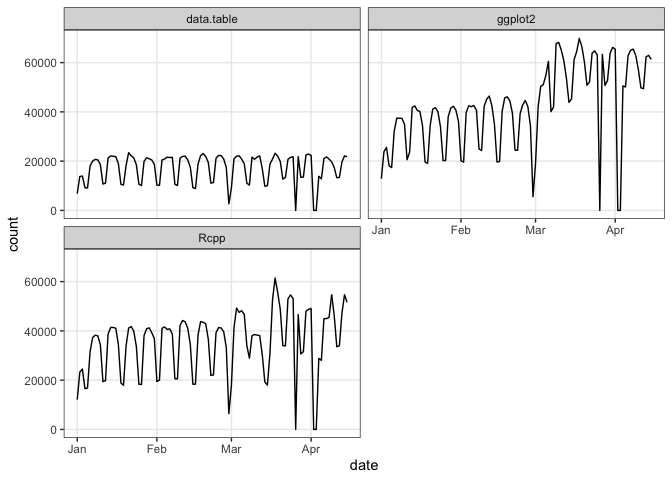
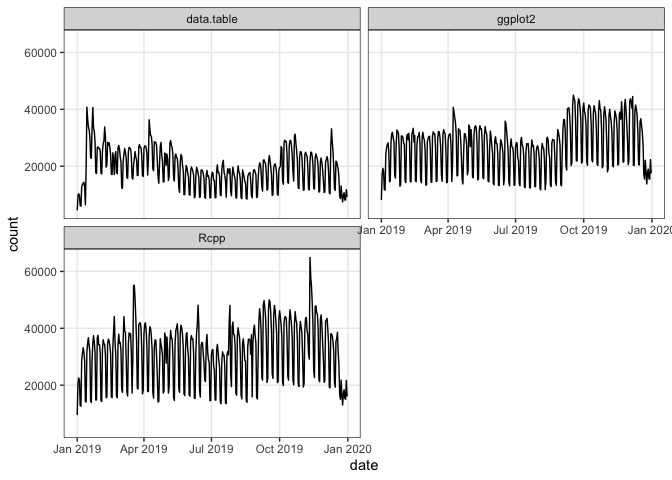
copyedit

diff --git a/content/post/2020-03-03-packageRank/index.md b/content/post/2020-03-03-packageRank/index.md
@@ -35,7 +35,7 @@ cranlogs::cran_downloads(packages = "HistData")
 
 ```
         date count  package
-1 2020-04-15   410 HistData
+1 2020-04-16   426 HistData
 ```
 
 <br/>
@@ -47,14 +47,14 @@ cranDownloads(packages = "HistData")
 
 ```
         date count  package
-1 2020-04-15   410 HistData
+1 2020-04-16   426 HistData
 ```
 
 <br/>
 The only difference is that `cranDownloads()` adds four features:
 <br/>
 
-## "spell check" package names
+## check package names
 
 
 ```r
@@ -73,7 +73,7 @@ cranDownloads(packages = "ggplot2")
 
 ```
         date count package
-1 2020-04-15 61322 ggplot2
+1 2020-04-16 60828 ggplot2
 ```
 
 <br/>
@@ -96,14 +96,14 @@ cranDownloads(packages = "VR")
 
 ```
         date count package
-1 2020-04-15   239      VR
+1 2020-04-16     0      VR
 ```
 
 <br/>
 
-## two additional date formats
+## additional date formats
 
-With `cranlogs::cran_downloads()`, you can specify a time frame using the `from` and `to` arguments. The only downside is that dates must be formatted as "yyyy-mm-dd".To reduce typing and to create convenient shortcuts, `cranDownloads()` also allows you to use "yyyy-mm" or "yyyy" (yyyy works too!).
+With `cranlogs::cran_downloads()`, you can specify a time frame using the `from` and `to` arguments. The downside is that dates must be formatted as "yyyy-mm-dd". To reduce typing, `cranDownloads()` allows you to also use "yyyy-mm" or "yyyy" (yyyy works too!).
 
 ### "yyyy-mm"
 
@@ -115,7 +115,6 @@ cranlogs::cran_downloads(packages = "HistData", from = "2020-02-01",
   to = "2020-02-29")
 ```
 
-<br/>
 With `cranDownloads()`, you can just specify the year and month:
 
 
@@ -123,8 +122,6 @@ With `cranDownloads()`, you can just specify the year and month:
 # 29 observations!
 cranDownloads(packages = "HistData", from = "2020-02", to = "2020-02")
 ```
-
-<br/>
 
 ### "yyyy"
 
@@ -136,7 +133,6 @@ cranlogs::cran_downloads(packages = "rstan", from = "2020-01-01",
   to = Sys.Date() - 1)
 ```
 
-<br/>
 With `cranDownloads()`, you can just type:
 
 
@@ -163,24 +159,24 @@ cranDownloads(packages = "HistData", from = "2019-01-15",
 
 ## visualization
 
-`cranDownloads()` makes visualization of `cranlogs::cran_downloads()` output easier. Just use `plot()`:
+`cranDownloads()` makes visualization easy. Just use `plot()`:
 
 
 ```r
 plot(cranDownloads(packages = "HistData", from = "2019", to = "2019"))
 ```
 
-{{<figure src="cranDownloads_viz1-1.png" title="Figure 1 'HistData' 2019 Package Downloads">}}
+{{<figure src="cranDownloads_viz1-1.png" title="Figure 1 Visualize cranDownloads() for A Single Package">}}
 
 If you pass a vector of package names, `plot()` defaults to using `ggplot2` facets:
 
 
 ```r
 plot(cranDownloads(packages = c("ggplot2", "data.table", "Rcpp"),
-  from = "2020"))
+  from = "2019", to = "2019"))
 ```
 
-{{<figure src="cranDownloads_viz2-1.png" title="Figure 4 Year-to-Date Downloads for Multiple Packages">}}
+{{<figure src="cranDownloads_viz2-1.png" title="Figure 2 Visualize cranDownloads() for Multiple Packages">}}
 
 <br/>
 If you want the data in a single plot, use `multi.plot = TRUE`:
@@ -188,14 +184,16 @@ If you want the data in a single plot, use `multi.plot = TRUE`:
 
 ```r
 plot(cranDownloads(packages = c("ggplot2", "data.table", "Rcpp"),
-  from = "2020"), multi.plot = TRUE)
+  from = "2019", to = "2019"), multi.plot = TRUE)
 ```
+
+See the [documentation](https://www.github.com/lindbrook/packageRank/) for `plot.cranDownloads()` for more plotting options.
 
 ******
 
 # `packageRank()`
 
-[`'packageRank'`](https://cran.r-project.org/package=packageRank) began as a collection of functions I wrote to gauge interest in the [`'cholera'`](https://cran.r-project.org/package=cholera) package. After looking at the data for this and other packages, the "compared to what?" question naturally comes to mind.
+[`'packageRank'`](https://cran.r-project.org/package=packageRank) began as a collection of functions I wrote to gauge interest in the [`'cholera'`](https://cran.r-project.org/package=cholera) package. After looking at the data for this and other packages, the "compared to what?" question quickly came to mind.
 
 Consider the data for the first week of March 2020:
 
@@ -204,23 +202,24 @@ Consider the data for the first week of March 2020:
 plot(cranDownloads(packages = "cholera", from = "2020-03-01",
   to = "2020-03-07"))
 ```
+{{<figure src="motivation_code-1.png" title="Figure 3 Package Downloads for 'cholera' March 1-7, 2020">}}
 
 <br/>
 
-{{<figure src="motivation_code-1.png" title="Figure 3 Package Downloads for 'cholera' March 1-7, 2020">}}
-
-Do the peaks on Wednesday and Saturday represent surges of interest in the package or surges of traffic to [CRAN](https://cran.r-project.org/)? To put it more broadly, how can we know if a given download count is typical or unusual?
+Do the peaks on Wednesday and Saturday represent surges of interest in the package or surges of traffic to [CRAN](https://cran.r-project.org/)? To put it differently, how can we know if a given download count is typical or unusual?
 
 One way to answer these questions is to locate your package in the frequency distribution of download counts. Below are the distributions for Wednesday and Saturday with the location of [`'cholera'`](https://cran.r-project.org/package=cholera) highlighted:
 
 {{<figure src="skew_wed-1.png" title="Figure 4 Frequency Distribution of Package Downloads for Wednesday, March 4, 2020">}}
 
+<br/>
+
 {{<figure src="skew_sat-1.png" title="Figure 5 Frequency Distribution of Package Downloads for Saturday, March 7, 2020">}}
 <br/>
 
-Unfortunately, the frequency distribution of package downloads typically has a heavily skewed, exponential shape: on the Wednesday, the most "popular" package had 177,745 downloads while the least "popular" package(s) had just one. This is why the left side of the distribution, where packages with fewer downloads are located, _looks_ like a vertical line.
+As you can see, the frequency distribution of package downloads typically has a heavily skewed, exponential shape. On the Wednesday, the most "popular" package had 177,745 downloads while the least "popular" package(s) had just one. This is why the left side of the distribution, where packages with fewer downloads are located, _looks_ like a vertical line.To help see what's going on, we can take the log of download counts (x-axis) and redraw the graph.
 
-To help see what's going on, I redraw the plots using the logarithm of download counts (x-axis). In these plots, a vertical segment's position on the x-axis represents its download count and its height represents the number of packages with that download count:
+In these plots, the position of each vertical segment along the x-axis represents its download count and the height of each segments represents the number of packages with that download count:
 
 
 
@@ -238,15 +237,14 @@ plot(packageDistribution(package = "cholera", date = "2020-03-07"))
 ```
 {{<figure src="packageDistribution_sat_code-1.png" title="Figure 7 Frequency Distribution of Package Downloads for Saturday, March 7, 2020 with Logarithm of Download Counts">}}
 
+<br/>
+
 While these plots give us a better picture of where [`'cholera'`](https://cran.r-project.org/package=cholera) is located, comparisons between Wednesday and Saturday are impressionistic at best: all we can confidently say is that the download counts for both days were greater than the mode.
 
-To facilitate interpretation and comparison, I use the _rank percentile_ of download counts in place of nominal download counts. On the theoretical side, rank percentiles benefit from the fact that they give you the location of a package relative to the position of all other packages (i.e., the package's location in the distribution). On the pragmatic side, rank percentiles make it easier to numerically and visually compare Wednesday and Saturday. They rescale download counts so that they lie on a bounded interval between 0 and 100 rather than on one bounded only by zero. More importantly, they have a simple interpretation: it tells you the percentage of packages with fewer downloads.
-
-Here're the results for Wednesday and Saturday.
+To facilitate interpretation and comparison, I use the _rank percentile_ of download counts in place of nominal download counts. This nonparametric statistic tells you the percentage of packages with fewer downloads. In other words, it tells you the location of your package relative to the locations of all other packages. More importantly, by rescaling download counts to lie on the bounded interval between 0 and 100, rank percentiles make it easier to compare packages within and across distributions, and to compare Wednesday ("2020-03-04") to Saturday ("2020-03-07"):
 
 
 ```r
-# Wednesday
 packageRank(package = "cholera", date = "2020-03-04", size.filter = FALSE)
 ```
 
@@ -259,7 +257,6 @@ packageRank(package = "cholera", date = "2020-03-04", size.filter = FALSE)
 
 
 ```r
-# Saturday
 packageRank(package = "cholera", date = "2020-03-07", size.filter = FALSE)
 ```
 
@@ -274,7 +271,7 @@ On Wednesday, we can see that [`'cholera'`](https://cran.r-project.org/package=c
 
 ## computing rank percentiles
 
-To compute the rank percentile, I do the following. For each package I first tabulate the number of downloads and then compute the percentage of packages with fewer downloads. Here are the details using [`'cholera'`](https://cran.r-project.org/package=cholera) from that Wednesday as an example:
+To compute the rank percentile, I do the following. For each package I tabulate the number of downloads and then compute the percentage of packages with fewer downloads. Here are the details using [`'cholera'`](https://cran.r-project.org/package=cholera) from Wednesday as an example:
 
 
 ```r
@@ -340,11 +337,13 @@ plot(packageRank(packages = "cholera", date = "2020-03-07"))
 
 {{<figure src="packageRank_plot_code_sat-1.png" title="Figure 9 Rank Frequency Distribution of Package Downloads for Saturday, March 7, 2020">}}
 
-These graphs, customized to be on the same scale, plot the rank of the download count for _all_ packages downloaded that day (x-axis) against the logarithm of those counts (y-axis). It then highlights your package's position in the distribution along with its rank percentile and download count (in red). In the background, the 75th, 50th and 25th percentiles are plotted as dotted vertical lines; the package with the most downloads, which in both cases is [`'magrittr'`](https://cran.r-project.org/package=magrittr) (in blue, top left); and the total number of downloads, 5,561,681 and 3,403,969 respectively (in blue, top right).
+<br/>
+
+These graphs, customized to be on the same scale, plot the _rank order_ of packages' download counts (x-axis) against the logarithm of those counts (y-axis). It then highlights a package's position in the distribution along with its rank percentile and download count (in red). In the background, the 75th, 50th and 25th percentiles are plotted as dotted vertical lines; the package with the most downloads, which in both cases is [`'magrittr'`](https://cran.r-project.org/package=magrittr) (in blue, top left); and the total number of downloads, 5,561,681 and 3,403,969 respectively (in blue, top right).
 
 <br/>
 
-## computational performance and analytical limitation
+## computational and analytic limitations
 
 Unlike `cranlogs::cran_download()`, which benefits from server-side support (i.e., download counts are "pre-computed"), `packageRank()` needs to download the [logs](http://cran-logs.rstudio.com/) from RStudio and compute the rank percentiles of download counts. This imposes a performance penalty and a limit on analysis.
 
@@ -354,21 +353,21 @@ As a proof-of-concept, the plot below compares nominal download counts with thei
 
 {{<figure src="counts_ranks-1.png" title="Figure 10 Comparison of Package Download Counts and Rank Percentiles">}}
 
-In this example, the correlation between counts and rank percentiles is pretty high, Pearson's r = 0.7 (a very rough estimate seems to show that this correlation is variable but closer to 0.6 - you occasionally see negative values). That said, the key thing is that rank percentiles give us _a_ way to compare and contrast package downloads within and across distributions. Thus, taking the differences in traffic to CRAN, the Saturday's downloads appear to be greater than Wednesday's.
+Note that while the correlation between counts and rank percentiles in _this_ example is high (r = 0.7), it is not necessarily representative.
 
 ******
 
-# caveat: positive bias in download counts
+# bias in download counts
 
-The primary audience for [`'cranlogs'`]https://cran.r-project.org/package=cranlogs), [`'adjustedcranlogs'`](https://cran.r-project.org/package=adjustedcranlogs), and [`'packageRank'`](https://cran.r-project.org/package=packageRank) are developers interested in estimating interest in their packages attract. For these three packages, the metric of that interest is the count of package downloads: [`'cranlogs'`]https://cran.r-project.org/package=cranlogs) works by counting the number of entries in [RStudio's logs](http://cran-logs.rstudio.com/). This is a perfectly sensible strategy and a widely used way to signal a package's importance or quality (witness the number of badges on GitHub).
+The primary audience for [`'cranlogs'`](https://cran.r-project.org/package=cranlogs), [`'adjustedcranlogs'`](https://cran.r-project.org/package=adjustedcranlogs), and [`'packageRank'`](https://cran.r-project.org/package=packageRank) are developers interested in estimating the amount of interest their packages attract. For these three packages, the metric of interest is package download counts. [`'cranlogs'`](https://cran.r-project.org/package=cranlogs), which is the foundation upon which [`'adjustedcranlogs'`](https://cran.r-project.org/package=adjustedcranlogs), and [`'packageRank'`](https://cran.r-project.org/package=packageRank) are built, works by counting the number of entries in [RStudio's dowaload logs](http://cran-logs.rstudio.com/). This is a perfectly sensible strategy and a widely used way to signal a package's importance or quality (witness the number of badges on GitHub).
 
-Unfortunately, there are four objections to using raw download counts. They revolve around the notion that not all downloads are equal. The first is that the logs themselves may not be representative of the population of R users. The data for [`'cranlogs'`]https://cran.r-project.org/package=cranlogs) come from RStudio's [download logs](http://cran-logs.rstudio.com/) and reflect traffic to the [0-Cloud mirror](https://cloud.r-project.org/). This is a virtual mirror that directs client requests to the nearest server. This mirror is "currently sponsored by RStudio". Previously, I believe it was an [RStudio project](http://cran.rstudio.com) and is still the default selection in the RStudio application. The upshot of all of this is that there's a possibility that the logs may reflect the users of RStudio application (e.g., perhaps more "tidyverse" centric) rather than of general users of R.
+Unfortunately, there are four objections to using raw download counts. They revolve around the notion that  not all downloads are equal. In this post, however, I'm going to just mention the first three and focus on the fourth. The first is that the logs themselves may not be representative of the general population of R users because the data for [`'cranlogs'`](https://cran.r-project.org/package=cranlogs) come from RStudio's [download logs](http://cran-logs.rstudio.com/). The second is that download counts are (arguably) inflated by package updates. This, I believe, is the motivation behind the [`'adjustedcranlogs'`](https://cran.r-project.org/package=adjustedcranlogs) package. While separating package updates from new installations[^1] would be interesting information, I'm not entirely sure why updates need to be excluded since both reflect interest in a package. The third is that download counts are (arguably) inflated by package dependencies. The problem, in a nutshell, is that when a user chooses to download a package, they do not choose to download all the supporting, upstream packages (i.e., package dependencies) that are downloaded with the chosen package. This was the problem I was hoping to examine using [`'packageRank'`](https://cran.r-project.org/package=packageRank). What stopped me was the discovery of the fourth problem. The fourth is that download counts are inflated due the presence of two "invalid" log entries: 1) downloads that are "too small" and 2) an overrepresentation of prior versions.
 
-The next three objections are that download counts suffer from a positive, inflationary bias. I'll sketch the first two and then discuss the third in detail. First, download counts are (arguably) inflated by package updates. This, I believe, is the motivation behind the [`'adjustedcranlogs'`](https://cran.r-project.org/package=adjustedcranlogs) package. It addresses this inflations so in two ways: 1) it removes the download count spikes that accompany package updates and replaces them with the median count for the time frame; and/or 2) it adjusts counts downward or not at all, by subtracting the "minimal" number of package download counts computed from a random sample of CRAN packages. Based on my (possibly faulty) reading of the source code and documentation, this value, computed from the 0.05 quantile of the sampled packages, is used to estimate the number of package downloads due to updates rather than to new installations.[^1] While this information would be of great interest to developers, from the perspective of estimating interest in a package, it's not obvious why updates should or need be excluded. Package updates are revelatory not problematic. Interest in a package is defined by both new and existing users.[^2]
+## inflation and "invalid" log entries
 
-Second, download counts are (arguably) inflated by package dependencies. The problem, in a nutshell, is that when a user chooses to download a package, they do not choose to download all the supporting, upstream packages (i.e., package dependencies) that are downloaded with the chosen package. To me, this is the elephant-in-the-room. Package dependencies can have geometric effect on download counts due to [economies of scale](https::/www.wikipedia.org//Economies_of_scale) or the [Matthew effect](https::/www.wikipedia.org/Matthew_effect): this is one reason why `cranlogs::cran_top_downloads()` returns the usual suspect and why the frequency distribution of package downloads (Figure 7 and 8 above) are so skewed. This is the problem I was hoping to work on using [`'packageRank'`](https://cran.r-project.org/package=packageRank) until I ran into the third (hopefully less arguable) source of download count inflation.
+Downloads that are "too small" are, apparently, a software artifact. The overrepresentation of prior versions is a consequence of efforts to mirror or download CRAN in its entirety. These mirroring efforts are what makes both "invalid" types of downloads so problematic: numerically, they undermine our strategy of computing package downloads by counting download logs entries; conceptually, they lead us to overestimate interest in a package.
 
-Third, download counts are inflated due the presence of two "invalid" log entries: 1) downloads that are "too small" and 2) an overrepresentation of prior versions. The former is, apparently, a software artifact. The latter is, I'll argue, a consequence of efforts to mirror or download CRAN in its entirety. These mirroring efforts are what makes both "invalid" types of downloads so problematic: numerically, they undermine our strategy of counting package downloads by counting entries in download logs; conceptually, they lead us to overestimate interest in a package. This bias is variable. The greater a package's "true" popularity (i.e., the number of "real" downloads), the lower the bias. Essentially, the bias gets diluted. The greater the number of prior versions, the greater the bias. When all of CRAN is being downloaded, more versions means more package downloads. Fortunately, we can minimize the bias by filtering out "small" downloads, and by filtering out or discounting prior versions.
+This inflationary bias is variable. The greater a package's "true" popularity (i.e., the number of "real" downloads), the lower the bias. Essentially, the bias gets diluted. The greater the number of prior versions, the greater the bias. When all of CRAN is being downloaded, more versions means more package downloads. Fortunately, we can minimize the bias by filtering out "small" downloads, and by filtering out or discounting prior versions.
 
 ## download logs
 
@@ -489,7 +488,7 @@ Filtering out 500 B downloads is simple and straightforward (`packageRank()` and
 
 Filtering out previous versions is more complicated. You'd not only need to know the current version, you'd probably also want a way to discount rather than to simply exclude previous version(s). This is especially when a package update occurs.
 
-# Significance and Form of Bias
+## significance
 
 Should you be worried about this inflationary bias? In general, I think the answer is yes. The reason is that most of us use download counts to estimate of the amount of interest our packages attract and, more implicitly, to estimate our packages' importance and quality (witness all the badges displaying download counts on GitHub).
 
@@ -497,7 +496,7 @@ The bias undermines this relationship. It does so in variable, unequal fashion: 
 
 <br/>
 
-## popularity
+## popularity and bias
 
 
 To illustrate the effect of popularity, I compare [`'ggplot2'`](https://cran.r-project.org/package=ggplot2) and [`'cholera'`](https://cran.r-project.org/package=cholera) for October 2019. With one million plus downloads, ~500 B entries inflate the download count for [`'ggplot2'`](https://cran.r-project.org/package=ggplot2) by 2%:
@@ -510,7 +509,7 @@ With under 400 downloads, ~500 B entries inflate the download count for [`'chole
 
 <br/>
 
-## number of versions
+## number of versions and bias
 
 To illustrate the effect of the number of versions, I compare [`'cholera'`](https://cran.r-project.org/package=cholera), an active package with 8 versions, and 'VR', an inactive package last updated in 2009, with 92 versions. In both cases, I filter out all downloads except for those of the most recent version.
 
@@ -524,13 +523,13 @@ With 'VR', past version inflate the download count by 7,500%:
 
 <br/>
 
-## popularity & versions
+## popularity & versions and bias
 
 To illustrate the joint effect of both ~500 B downloads and previous versions, I again use [`'cholera'`](https://cran.r-project.org/package=cholera). Here, we see that the joint effect of both biases inflate the download count by 31%:
 
 {{<figure src="cholera_size.version-1.png" title="Figure 18 Effect of ~500 B Downloads and Number of Past Versions on Download Counts: October 2019">}}
 
-## OLS estimate
+## an OLS estimate
 
 Even though the bias is pretty mechanical and deterministic, to show that examples above are not idiosyncratic, I conclude with a back-of-the-envelope estimate of the general effect of popularity (unfiltered downloads) and version count (total number of versions) on total bias (the percent change in download counts after filtering out ~500 B download and prior versions).
 
@@ -565,7 +564,7 @@ F-statistic:  1435 on 3 and 195 DF,  p-value: < 2.2e-16
 
 ******
 
-# Conclusions
+# conclusions
 
 This post introduces some of the functions and features of [`'packageRank'`](https://cran.r-project.org/package=packageRank). The aim of the package is to put package download counts into context using visualization and rank percentiles. The post also describes a systematic, positive bias that affects download counts and offers some ideas about how to minimize its effect.
 
@@ -580,6 +579,8 @@ plot(cranDownloads(from = "2020-02-25", to = "2020-03-04"), r.version = TRUE)
 
 {{<figure src="cran_pkgs-1.png" title="Figure 19 Leap Day 2020">}}
 
+<br/>
+
 
 ```r
 plot(cranDownloads("R", from = "2020-02-25", to = "2020-03-04"), r.version = TRUE)
@@ -587,9 +588,9 @@ plot(cranDownloads("R", from = "2020-02-25", to = "2020-03-04"), r.version = TRU
 
 {{<figure src="cran_r-1.png" title="Figure 20 Leap Day 2020">}}
 
-I've noticed that website maintenance (renaming files and folders, etc.) sometimes coincides with software updates. So my working hypothesis, which I haven't explored empirically, is that the scripts used to do automated downloading may have been "broken" by changes on CRAN. If so, this might actually be a better estimate of the "real" level of interest in R and its packages.
+I've noticed that website maintenance (renaming files and folders, etc.) sometimes coincides with software updates. So my working hypothesis, which I've yet to explore, is that the scripts used to do automated downloading may have been "broken" by changes on CRAN. If so, this might actually be a better estimate of the "real" level of interest in R and its packages.
 
-[^1]: This is challenging problem because, to my knowledge, there is no easy way to distinguish updates from new downloads by looking at log entries. The fact that the [`'adjustedcranlogs'`](https://cran.r-project.org/package=adjustedcranlogs) does so by using the population of packages to make inferences about individual packages, a kind of ecological inference, rather than going more granular, to the IP level.
+[^1]: This is also a challenging problem. To my knowledge, distinguishing updates from new downloads by looking at log entries is not a straightforward task. To do so, [`'adjustedcranlogs'`](https://cran.r-project.org/package=adjustedcranlogs) essentially makes an ecological inference to estimate the number of package update for an _individual_ package based on an estimate derived from the _population_ of packages (it uses the "typical" minimal number of downloads, computed from the 0.05 quantile of a sample of packages, as an estimate of package updates).
 [^2]: This is why `plot.cranDownloads()` include `package.version` and `r.version` arguments to annotate graphs with the the release of new package versions and new versions of R.
 [^3]: The frequency of ~500 B downloads is such that I wonder whether `lftp` or something similar is/was part of the R and/or RStudio. That said, I've found that IP addresses with a "US" top level domain code account for 72% of ~500 B downloads but only 46% of all downloads. For details, see `head(packageRank::blog.data$ccode.ct, 5)`: "filtered" records download counts without ~500 B entries; "delta" is the arithmetic difference between "unfiltered" and "filtered".
 [^4]: The slight upward trend in the peaks probably reflects the addition of new packages during the month.
